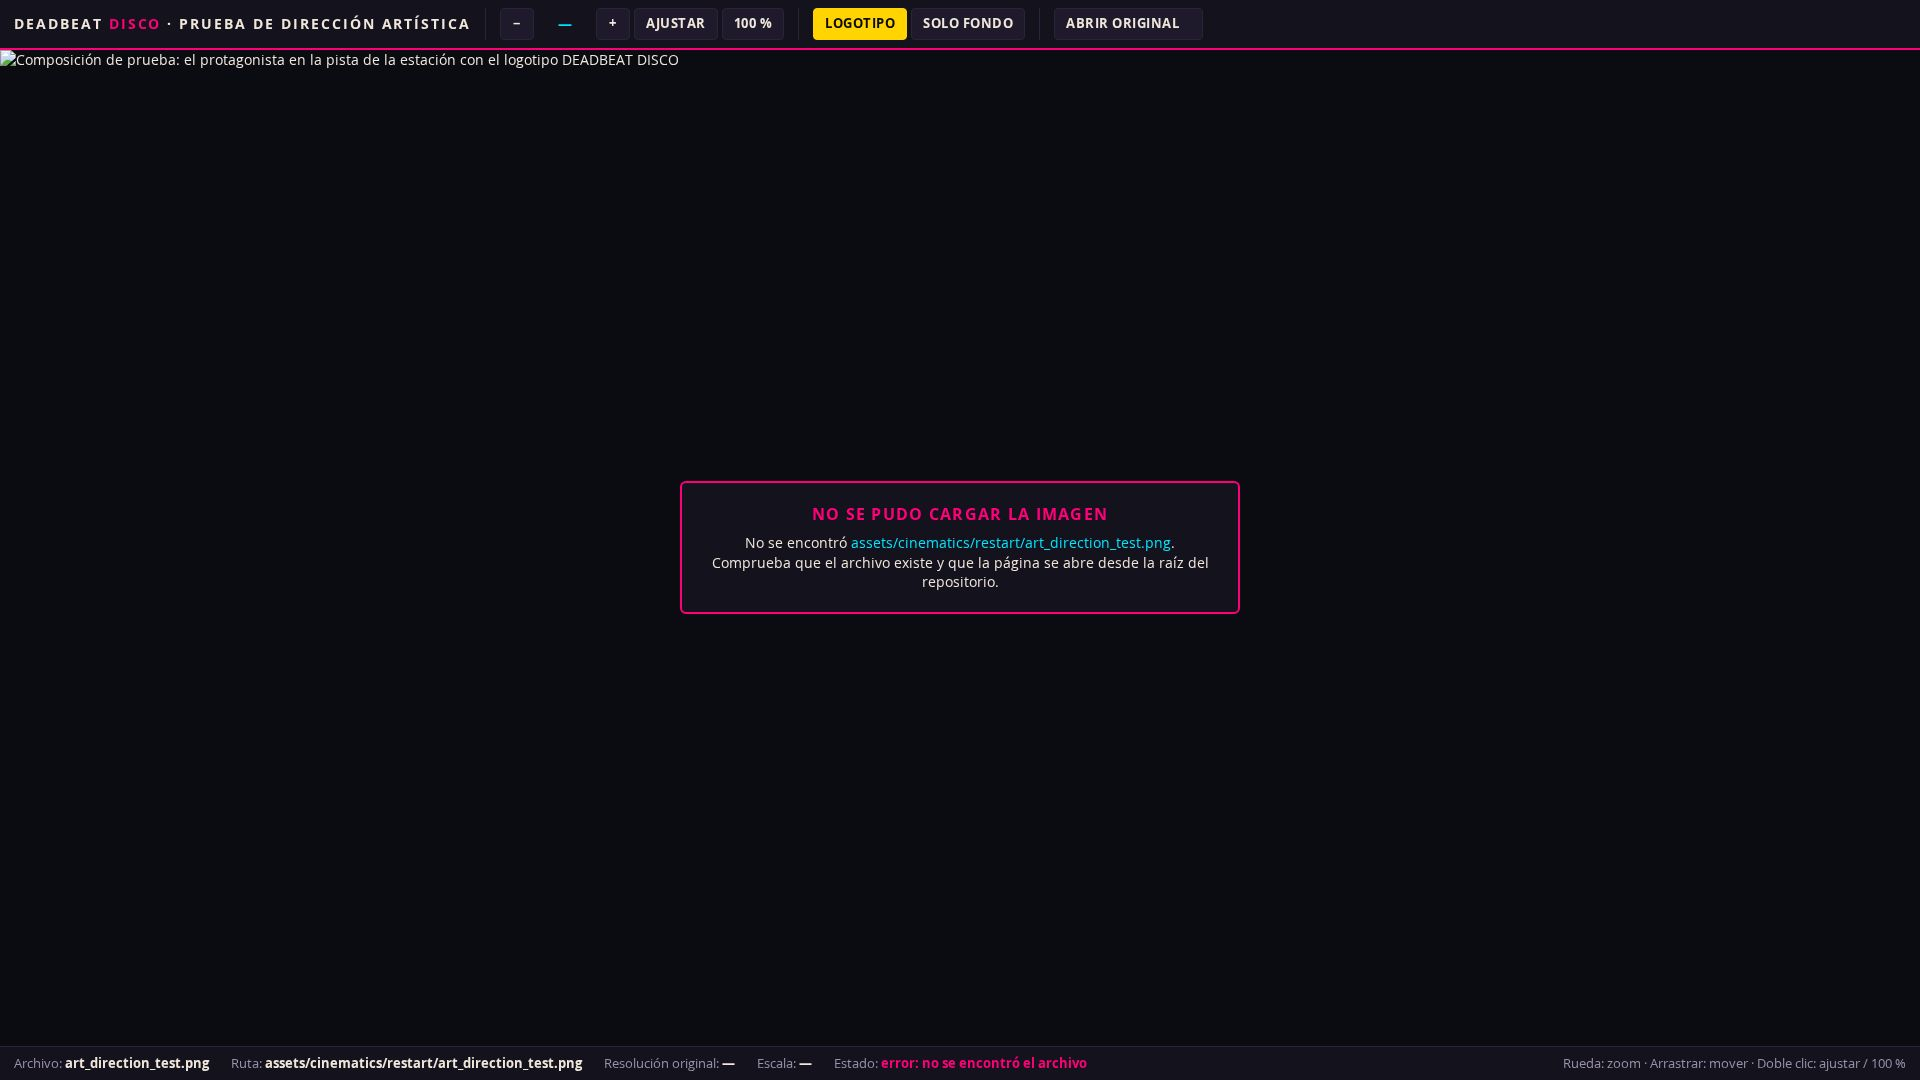
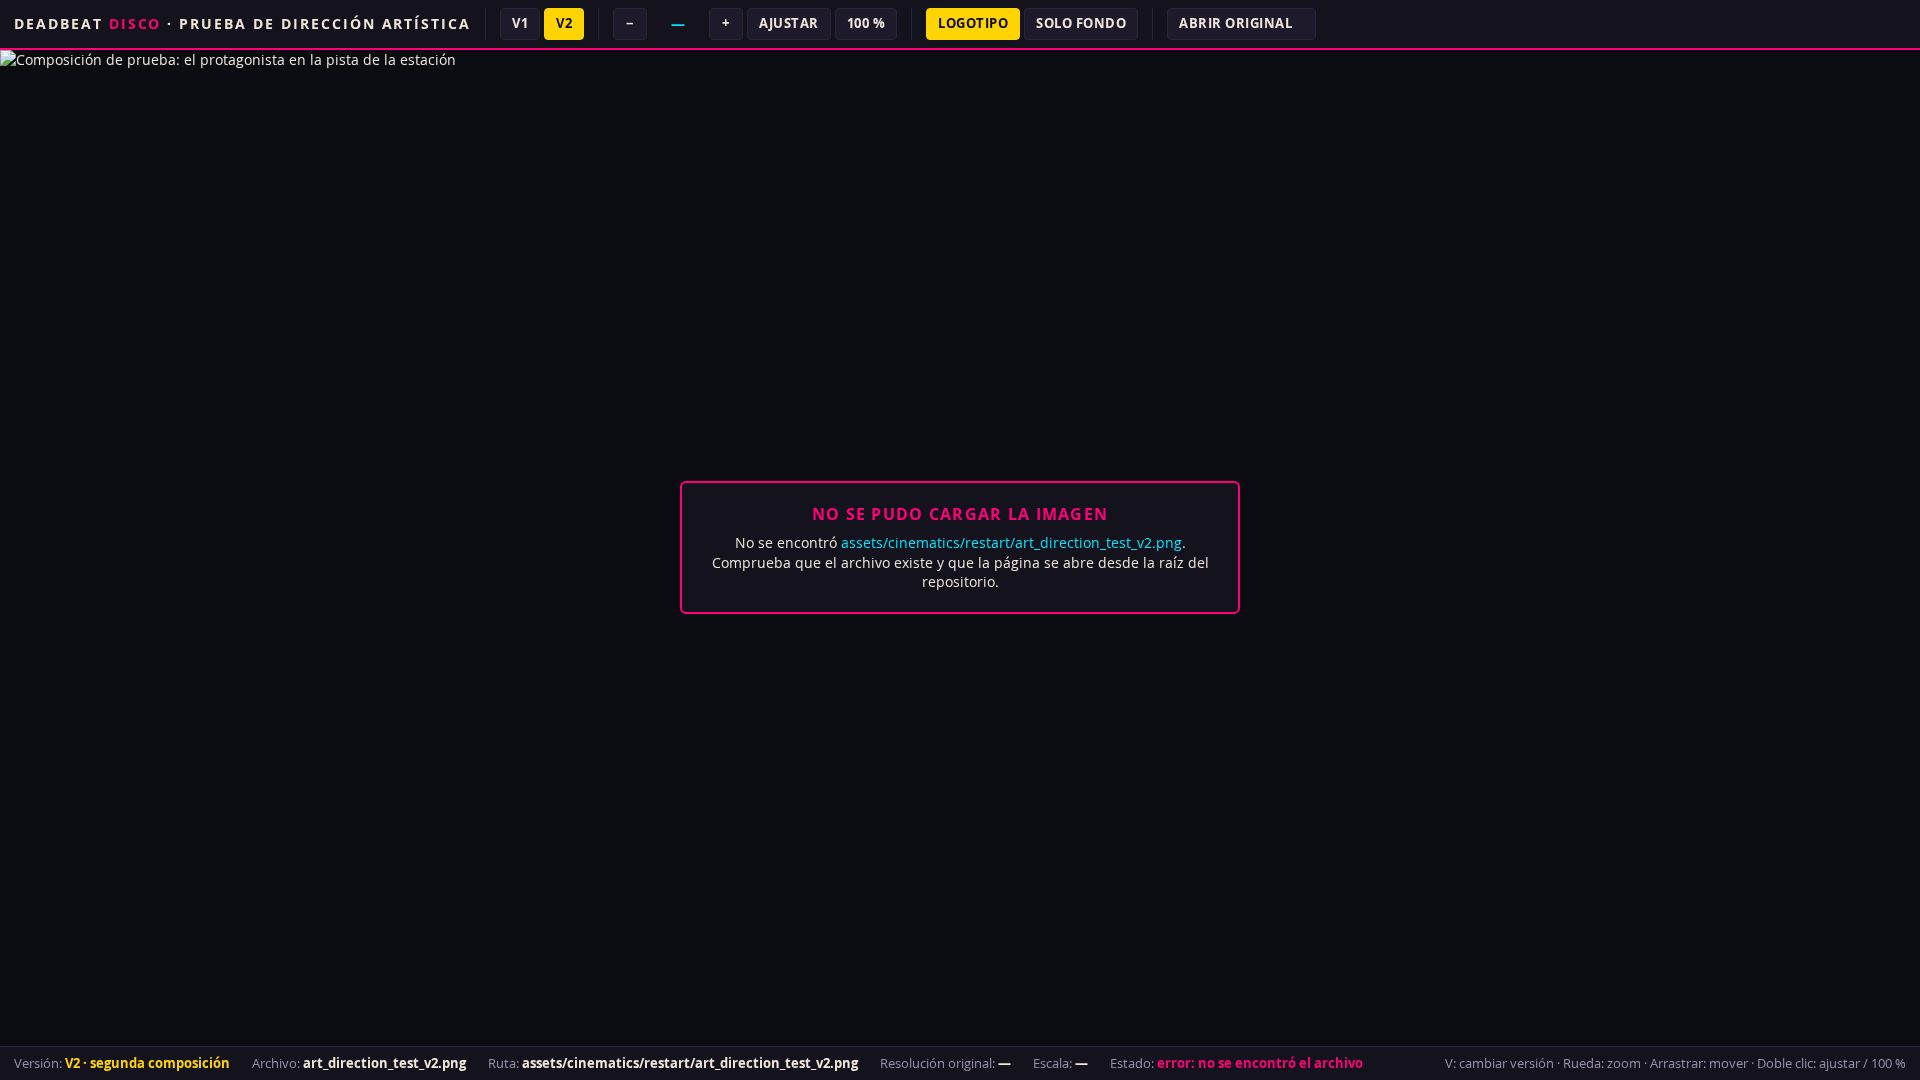
art(restart): composición V2 (partitura, 16:9 nativo) y selector V1/V2 en el visor

diff --git a/tools/qa/test_art_direction_viewer.js b/tools/qa/test_art_direction_viewer.js
@@ -27,7 +27,8 @@ const check = (name, ok, detail) => { results.push({ name, ok: !!ok, detail }); 
     return { ...window.DD_VISOR.estado(), r: { x: r.x, y: r.y, w: r.width, h: r.height }, v: { x: v.x, y: v.y, w: v.width, h: v.height },
       estado: document.getElementById("i-estado").textContent, res: document.getElementById("i-res").textContent,
       archivo: document.getElementById("i-archivo").textContent, ruta: document.getElementById("i-ruta").textContent,
-      escala: document.getElementById("i-escala").textContent, juego: !!(window.DD_BOOT || window.__DD_BRIDGE) };
+      escala: document.getElementById("i-escala").textContent, verTxt: document.getElementById("i-version").textContent,
+      p1: document.getElementById("v1").getAttribute("aria-pressed"), p2: document.getElementById("v2").getAttribute("aria-pressed"), juego: !!(window.DD_BOOT || window.__DD_BRIDGE) };
   });
   const loaded = (pg) => pg.waitForFunction(() => window.DD_VISOR && window.DD_VISOR.estado().cargada, null, { timeout: 20000 });
 
@@ -38,9 +39,29 @@ const check = (name, ok, detail) => { results.push({ name, ok: !!ok, detail }); 
   check("1 la página carga", resp.status() === 200 && s.estado === "cargada", "HTTP " + resp.status() + ", estado «" + s.estado + "»");
   check("2 imagen completa dentro del lienzo", s.r.x >= s.v.x - 0.5 && s.r.y >= s.v.y - 0.5 && s.r.x + s.r.w <= s.v.x + s.v.w + 0.5 && s.r.y + s.r.h <= s.v.y + s.v.h + 0.5,
     Math.round(s.r.w) + "×" + Math.round(s.r.h) + " en lienzo " + s.v.w + "×" + s.v.h);
-  check("datos del recurso", s.res === "1920 × 1080 px" && s.archivo === "art_direction_test.png" && s.ruta === "assets/cinematics/restart/art_direction_test.png", s.archivo + " · " + s.res + " · " + s.ruta);
+  check("abre en V2 y lo indica", s.version === "v2" && /^V2/.test(s.verTxt) && s.p2 === "true" && s.p1 === "false", s.verTxt);
+  check("datos del recurso V2", s.res === "1920 × 1080 px" && s.archivo === "art_direction_test_v2.png" && s.ruta === "assets/cinematics/restart/art_direction_test_v2.png", s.archivo + " · " + s.res + " · " + s.ruta);
   check("5 proporción conservada (ajustada)", Math.abs(s.r.w / s.r.h - s.w / s.h) < 0.002, (s.r.w / s.r.h).toFixed(4) + " frente a " + (s.w / s.h).toFixed(4));
-  if (OUT) await pg.screenshot({ path: OUT + "/visor_1920x1080_ajustada.jpg", type: "jpeg", quality: 80 });
+  if (OUT) await pg.screenshot({ path: OUT + "/visor_v2_1920x1080.jpg", type: "jpeg", quality: 80 });
+
+  /* Comparación V1 / V2: mismas dimensiones y mismo encuadre, ajustada y ampliada. */
+  const wait = (file) => pg.waitForFunction((f) => document.getElementById("i-archivo").textContent === f && document.getElementById("i-estado").textContent === "cargada", file);
+  const same = (a, b) => ["x", "y", "w", "h"].every((k) => Math.abs(a.r[k] - b.r[k]) < 0.01) && a.s === b.s;
+  await pg.click("#v1"); await wait("art_direction_test.png"); let c1 = await st(pg);
+  check("11 selector: V1", c1.version === "v1" && /^V1/.test(c1.verTxt) && c1.p1 === "true" && c1.p2 === "false" && c1.res === "1920 × 1080 px", c1.verTxt + " · " + c1.archivo);
+  check("11 V1 y V2 con el mismo encuadre (ajustada)", same(c1, s), Math.round(c1.r.w) + "×" + Math.round(c1.r.h) + " en ambas");
+  if (OUT) await pg.screenshot({ path: OUT + "/visor_v1_1920x1080.jpg", type: "jpeg", quality: 80 });
+  await pg.mouse.move(1300, 420); await pg.mouse.wheel(0, -500); c1 = await st(pg);
+  await pg.keyboard.press("v"); await wait("art_direction_test_v2.png"); let c2 = await st(pg);
+  check("11 tecla V: el zoom y la posición se conservan al cambiar de versión", c2.version === "v2" && c2.s > 1.5 && same(c1, c2), c2.escala + " en ambas");
+  if (OUT) await pg.screenshot({ path: OUT + "/visor_v2_detalle_protagonista.jpg", type: "jpeg", quality: 80 });
+  await pg.keyboard.press("v"); await wait("art_direction_test.png");
+  if (OUT) await pg.screenshot({ path: OUT + "/visor_v1_detalle_protagonista.jpg", type: "jpeg", quality: 80 });
+  await pg.click("#logo"); await wait("art_direction_test_plate.png"); c1 = await st(pg);
+  check("11 V1 sin logotipo", !c1.conLogo && /sin logotipo/.test(c1.verTxt), c1.verTxt);
+  await pg.click("#v2"); await wait("art_direction_test_v2_plate.png"); c2 = await st(pg);
+  check("11 V2 sin logotipo (se conserva el modo al cambiar)", !c2.conLogo && c2.version === "v2" && c2.res === "1920 × 1080 px", c2.verTxt);
+  await pg.click("#logo"); await wait("art_direction_test_v2.png"); await pg.click("#ajustar");
 
   const fit = s.s;
   await pg.click("#mas"); let a = await st(pg);
@@ -63,10 +84,10 @@ const check = (name, ok, detail) => { results.push({ name, ok: !!ok, detail }); 
   await pg.click("#ajustar"); a = await st(pg);
   check("7 ajustar a pantalla", a.ajustada && Math.abs(a.s - fit) < 1e-6, a.escala);
 
-  await pg.click("#logo"); await pg.waitForFunction(() => document.getElementById("i-estado").textContent === "cargada" && document.getElementById("i-archivo").textContent === "art_direction_test_plate.png");
+  await pg.click("#logo"); await pg.waitForFunction(() => document.getElementById("i-estado").textContent === "cargada" && document.getElementById("i-archivo").textContent === "art_direction_test_v2_plate.png");
   a = await st(pg);
   check("alternar sin logotipo", !a.conLogo && a.w === 1920 && a.h === 1080, a.archivo);
-  await pg.click("#logo"); await pg.waitForFunction(() => document.getElementById("i-archivo").textContent === "art_direction_test.png" && document.getElementById("i-estado").textContent === "cargada");
+  await pg.click("#logo"); await pg.waitForFunction(() => document.getElementById("i-archivo").textContent === "art_direction_test_v2.png" && document.getElementById("i-estado").textContent === "cargada");
   await pg.click("#fondo");
   check("alternar solo fondo oscuro", await pg.evaluate(() => getComputedStyle(document.getElementById("imagen")).visibility === "hidden"));
   await pg.click("#fondo");
@@ -88,10 +109,10 @@ const check = (name, ok, detail) => { results.push({ name, ok: !!ok, detail }); 
 
   /* Recurso ausente: debe verse un mensaje claro. */
   const pg2 = await ctx.newPage();
-  await pg2.route("**/art_direction_test.png", (r) => r.fulfill({ status: 404, body: "" }));
+  await pg2.route("**/art_direction_test_v2.png", (r) => r.fulfill({ status: 404, body: "" }));
   await pg2.goto(PAGE); await pg2.waitForFunction(() => /error/.test(document.getElementById("i-estado").textContent));
   const msg = await pg2.evaluate(() => ({ visible: !document.getElementById("aviso").hidden, text: document.getElementById("aviso").textContent }));
-  check("mensaje claro si el recurso no carga", msg.visible && /NO SE PUDO CARGAR/.test(msg.text) && /art_direction_test\.png/.test(msg.text), msg.text.slice(0, 70) + "…");
+  check("mensaje claro si el recurso no carga", msg.visible && /NO SE PUDO CARGAR/.test(msg.text) && /art_direction_test_v2\.png/.test(msg.text), msg.text.slice(0, 70) + "…");
   if (OUT) await pg2.screenshot({ path: OUT + "/visor_recurso_ausente.jpg", type: "jpeg", quality: 80 });
   await pg2.close();
 

diff --git a/assets/cinematics/preview/art_direction_test.html b/assets/cinematics/preview/art_direction_test.html
@@ -45,12 +45,17 @@
   #aviso code { color: var(--cian); word-break: break-all; }
   footer b { color: var(--hueso); font-weight: 600; }
   footer .ok { color: #5dffa0; } footer .mal { color: var(--magenta); } footer .espera { color: var(--amarillo); }
+  footer .version { color: var(--amarillo); font-weight: 800; }
   footer .ayuda { margin-left: auto; }
 </style>
 </head>
 <body>
 <header>
   <h1>DEADBEAT <span>DISCO</span> · PRUEBA DE DIRECCIÓN ARTÍSTICA</h1>
+  <div class="grupo" role="group" aria-label="Versión de la composición">
+    <button id="v1" aria-pressed="false" title="Primera composición (tecla V alterna)">V1</button>
+    <button id="v2" aria-pressed="true" title="Segunda composición (tecla V alterna)">V2</button>
+  </div>
   <div class="grupo" role="group" aria-label="Zoom">
     <button id="menos" title="Reducir (tecla -)" aria-label="Reducir">−</button>
     <span id="escala" aria-live="polite">—</span>
@@ -68,17 +73,18 @@
 </header>
 
 <main id="visor" aria-label="Lienzo de inspección">
-  <img id="imagen" alt="Composición de prueba: el protagonista en la pista de la estación con el logotipo DEADBEAT DISCO" draggable="false">
+  <img id="imagen" alt="Composición de prueba: el protagonista en la pista de la estación" draggable="false">
   <div id="aviso"><div>Cargando la imagen…</div></div>
 </main>
 
 <footer>
+  <span>Versión: <b id="i-version" class="version">—</b></span>
   <span>Archivo: <b id="i-archivo">—</b></span>
   <span>Ruta: <b id="i-ruta">—</b></span>
   <span>Resolución original: <b id="i-res">—</b></span>
   <span>Escala: <b id="i-escala">—</b></span>
   <span>Estado: <b id="i-estado" class="espera">cargando</b></span>
-  <span class="ayuda">Rueda: zoom · Arrastrar: mover · Doble clic: ajustar / 100 %</span>
+  <span class="ayuda">V: cambiar versión · Rueda: zoom · Arrastrar: mover · Doble clic: ajustar / 100 %</span>
 </footer>
 
 <script>
@@ -86,13 +92,16 @@
   "use strict";
   /* Rutas relativas a esta página: assets/cinematics/preview/ -> assets/cinematics/restart/ */
   var BASE = "../restart/";
-  var VARIANTES = { conLogo: "art_direction_test.png", sinLogo: "art_direction_test_plate.png" };
+  var VERSIONES = {
+    v1: { nombre: "V1 · primera composición", conLogo: "art_direction_test.png", sinLogo: "art_direction_test_plate.png" },
+    v2: { nombre: "V2 · segunda composición", conLogo: "art_direction_test_v2.png", sinLogo: "art_direction_test_v2_plate.png" }
+  };
   var RUTA_REPO = "assets/cinematics/restart/";
   var MIN = 0.05, MAX = 8;
 
   var $ = function (id) { return document.getElementById(id); };
   var visor = $("visor"), img = $("imagen"), aviso = $("aviso");
-  var v = { s: 1, x: 0, y: 0, w: 0, h: 0, cargada: false, ajustada: true, conLogo: true };
+  var v = { s: 1, x: 0, y: 0, w: 0, h: 0, cargada: false, ajustada: true, conLogo: true, version: "v2" };
 
   function limitar() {
     var cw = visor.clientWidth, ch = visor.clientHeight, iw = v.w * v.s, ih = v.h * v.s;
@@ -120,7 +129,12 @@
   function mover(dx, dy) { if (!v.cargada) return; v.x += dx; v.y += dy; pintar(); }
 
   function cargar() {
-    var archivo = v.conLogo ? VARIANTES.conLogo : VARIANTES.sinLogo;
+    var ver = VERSIONES[v.version];
+    var archivo = v.conLogo ? ver.conLogo : ver.sinLogo;
+    $("i-version").textContent = ver.nombre + (v.conLogo ? "" : " · sin logotipo");
+    $("v1").setAttribute("aria-pressed", String(v.version === "v1"));
+    $("v2").setAttribute("aria-pressed", String(v.version === "v2"));
+    document.title = "DEADBEAT DISCO · Prueba de dirección artística · " + v.version.toUpperCase();
     var mantener = v.cargada;
     $("i-archivo").textContent = archivo;
     $("i-ruta").textContent = RUTA_REPO + archivo;
@@ -151,6 +165,9 @@
   $("menos").onclick = function () { zoomA(v.s / 1.25); };
   $("ajustar").onclick = ajustar;
   $("real").onclick = function () { zoomA(1); };
+  function elegir(ver) { if (v.version === ver) return; v.version = ver; cargar(); }
+  $("v1").onclick = function () { elegir("v1"); };
+  $("v2").onclick = function () { elegir("v2"); };
   $("logo").onclick = function () {
     v.conLogo = !v.conLogo; this.setAttribute("aria-pressed", String(v.conLogo)); cargar();
   };
@@ -187,6 +204,7 @@
     else if (k === "-" || k === "_") zoomA(v.s / 1.25);
     else if (k === "0") ajustar();
     else if (k === "1") zoomA(1);
+    else if (k === "v" || k === "V") elegir(v.version === "v1" ? "v2" : "v1");
     else if (k === "l" || k === "L") $("logo").click();
     else if (k === "f" || k === "F") $("fondo").click();
     else if (k === "ArrowLeft") mover(paso, 0);
@@ -200,7 +218,7 @@
   window.addEventListener("resize", function () { if (v.ajustada) ajustar(); else pintar(); });
 
   /* Lectura para pruebas automáticas. */
-  window.DD_VISOR = { estado: function () { return { s: v.s, x: v.x, y: v.y, w: v.w, h: v.h, cargada: v.cargada, ajustada: v.ajustada, conLogo: v.conLogo }; } };
+  window.DD_VISOR = { estado: function () { return { s: v.s, x: v.x, y: v.y, w: v.w, h: v.h, cargada: v.cargada, ajustada: v.ajustada, conLogo: v.conLogo, version: v.version }; } };
 
   cargar();
 })();

diff --git a/docs/RESTART/02_PRUEBA_VISUAL_Y_VISOR.md b/docs/RESTART/02_PRUEBA_VISUAL_Y_VISOR.md
@@ -65,3 +65,51 @@ No probado: pantallas táctiles y navegadores distintos de Chromium.
 - Los tatuajes son calaveras y rosas; no se lee la «partitura incompleta» del lore.
 - El zorro aparece en la solapa, no en la espalda (que no se ve en este encuadre).
 - La multitud de ojos encendidos ocupa solo la esquina inferior izquierda.
+
+---
+
+# V2 — Refinamiento de la composición
+
+- **Estado:** pendiente de tu evaluación. V1 se conserva intacta.
+- **Referencia principal:** `docs/RESTART/referencias/REFERENCIA_V2_composicion.webp` (la imagen que adjuntaste; es la ilustración de V1 sin recortar).
+
+## Archivos
+
+| Archivo | Qué es | Resolución |
+|---|---|---|
+| `assets/cinematics/restart/art_direction_test_v2.png` | V2 con logotipo | 1920 × 1080 |
+| `assets/cinematics/restart/art_direction_test_v2_plate.png` | V2 sin logotipo | 1920 × 1080 |
+| `ART_ASSETS/rebuild_masters/R04_INICIO/art_direction_test_v2_plate.webp` | Maestro de V2 | 2048 × 1152 |
+
+- **Encuadre:** el maestro ya es 16:9 y mayor que el destino. Se redujo a 1920 × 1080; no hay recorte ni ampliación.
+- **Referencias de generación:** el maestro de V1 y el protagonista canónico (`menu_backdrop_2k.webp`, `player_idle_00.png`). Elegiste la opción 2 de 2.
+- **Logotipo:** `assets/logos/logo_deadbeat_graffiti.png` superpuesto sin redibujar ni deformar, con el mismo tamaño y posición que en V1. Solo se descarta su margen transparente.
+
+## Evaluación frente a lo pedido
+
+| Requisito | Resultado en V2 |
+|---|---|
+| 1920 × 1080, 16:9 | Cumplido (medido). |
+| Tatuajes de partitura | **Cumplido en lo esencial.** Pentagramas con notas y claves que rodean el brazo; sin calaveras ni rosas. Lo «incompleto» se lee poco: hay algunos tachones, pero los pentagramas se ven casi enteros. |
+| Vestuario sin gabardina | **Parcial.** Sisas cortadas y brazos libres, pero el cuello sigue alto y con solapas grandes. |
+| Pelo corto y en puntas | **No cumplido.** Sigue cayendo en mechones largos a los lados de la cara. |
+| Identidad canónica | **Parcial.** Rostro y actitud coinciden; pelo y cuello aún lo alejan del sprite. |
+| Multitud con presencia en varios planos | **No cumplido.** Es casi idéntica a V1: grupo en la esquina inferior izquierda y siluetas pequeñas sin ojos visibles en la pista. |
+| Cabina de discoteca | **No aparece.** |
+| Escenario y atmósfera de la referencia | Cumplido: estación, reloj, bola, escaleras, estandartes, suelo ajedrezado. |
+| Logotipo original completo | Cumplido. |
+| Jerarquía visual | Cumplido: protagonista, logotipo, bola y reloj, multitud. |
+
+## Visor
+
+El mismo archivo, ampliado: `assets/cinematics/preview/art_direction_test.html`. Abre en V2.
+
+- Botones `V1` y `V2` (tecla `V` alterna). El pie indica la versión visible.
+- Al cambiar de versión se conservan el zoom, la posición y el modo con o sin logotipo, de modo que el mismo detalle queda superpuesto.
+- El resto de controles no cambia.
+
+## Pruebas
+
+`tools/qa/test_art_direction_viewer.js`, Chromium 153 sin cabeza: **32 de 32 superadas** (`evidencia_visor/qa_visor.json`). Incluye las 26 anteriores y seis nuevas de comparación: selector, mismo encuadre ajustado y ampliado, V1 y V2 sin logotipo. El juego original sigue arrancando sin errores.
+
+Capturas: `evidencia_visor/visor_v1_1920x1080.jpg`, `visor_v2_1920x1080.jpg`, `visor_v1_detalle_protagonista.jpg`, `visor_v2_detalle_protagonista.jpg`.
